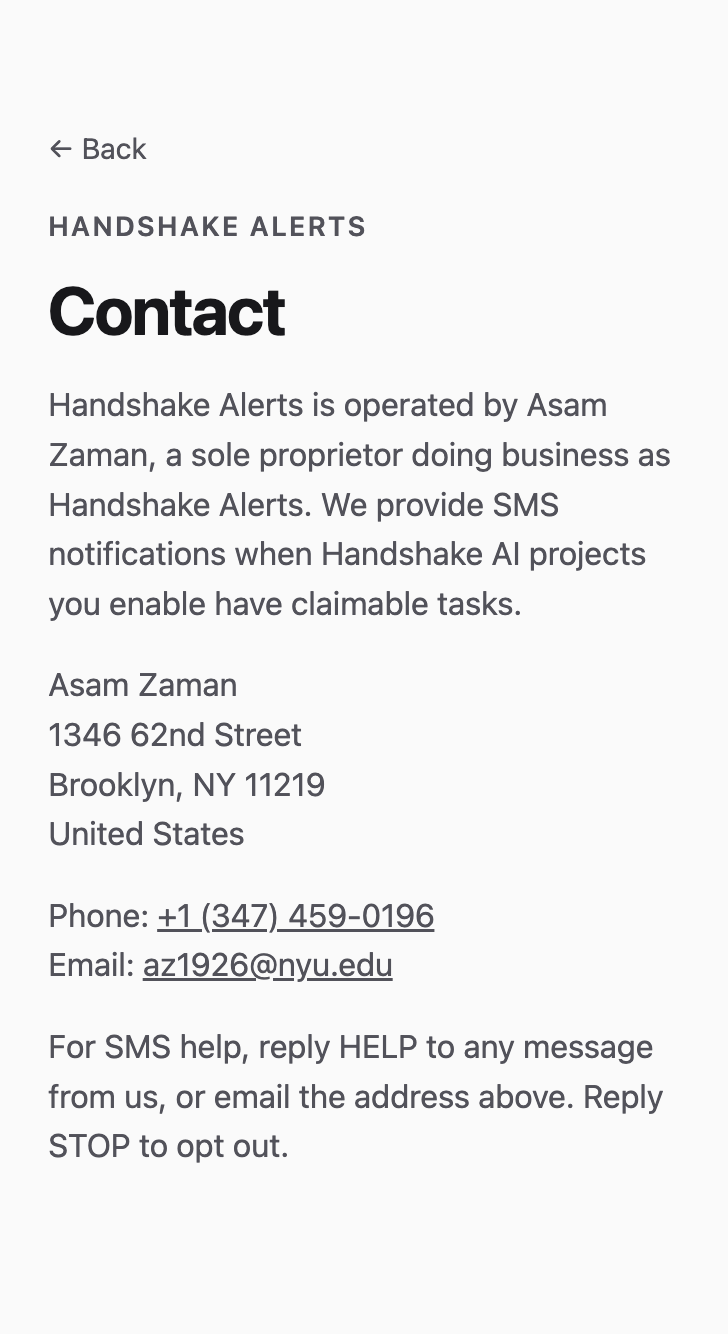
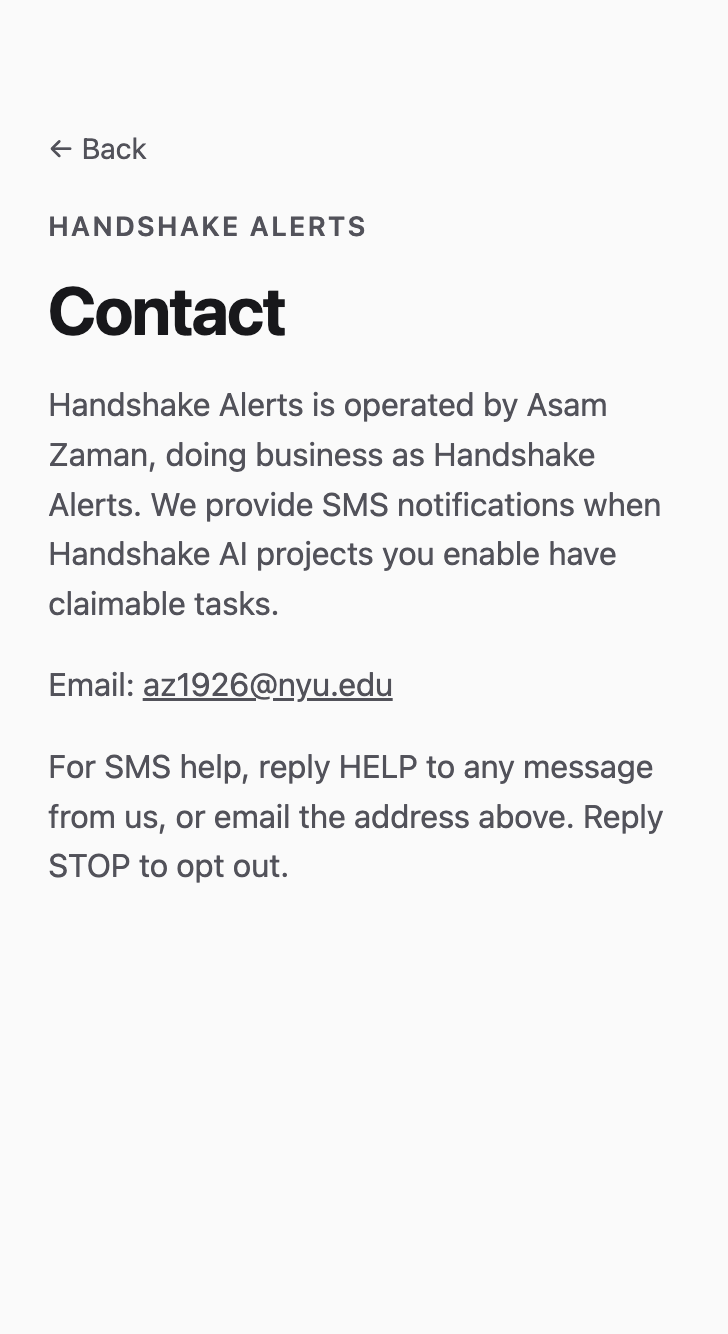
fix: drop leftover public contact screenshot that showed street address

Changed region(s): [[0.0604, 0.4918, 0.9066, 0.7376], [0.0604, 0.3381, 0.9066, 0.461], [0.0604, 0.7684, 0.9066, 0.8913]]

diff --git a/src/app/contact/page.tsx b/src/app/contact/page.tsx
@@ -23,8 +23,8 @@ export default function ContactPage() {
           </a>
         </p>
         <p>
-          For SMS help, reply HELP to any message from us, or email the address
-          above. Reply STOP to opt out.
+          For SMS help, reply HELP to any message from us, or email us. Reply STOP
+          to opt out.
         </p>
       </div>
     </main>

diff --git a/docs/contact.html b/docs/contact.html
@@ -20,8 +20,8 @@
         Email: <a href="mailto:az1926@nyu.edu">az1926@nyu.edu</a>
       </p>
       <p>
-        For SMS help, reply HELP to any message from us, or email the address
-        above. Reply STOP to opt out.
+        For SMS help, reply HELP to any message from us, or email us. Reply STOP
+        to opt out.
       </p>
     </main>
   </body>
